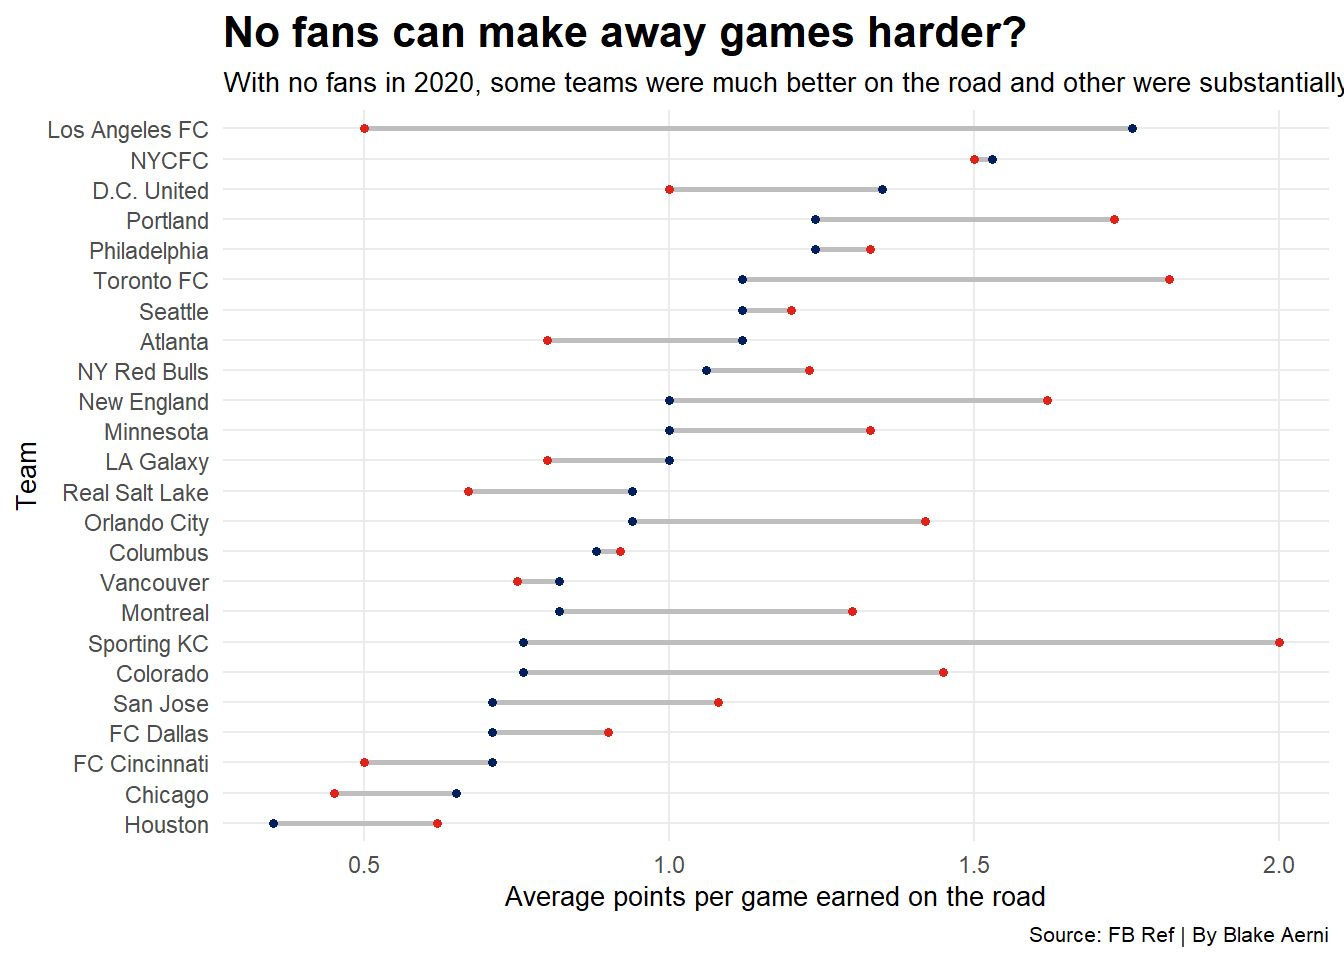
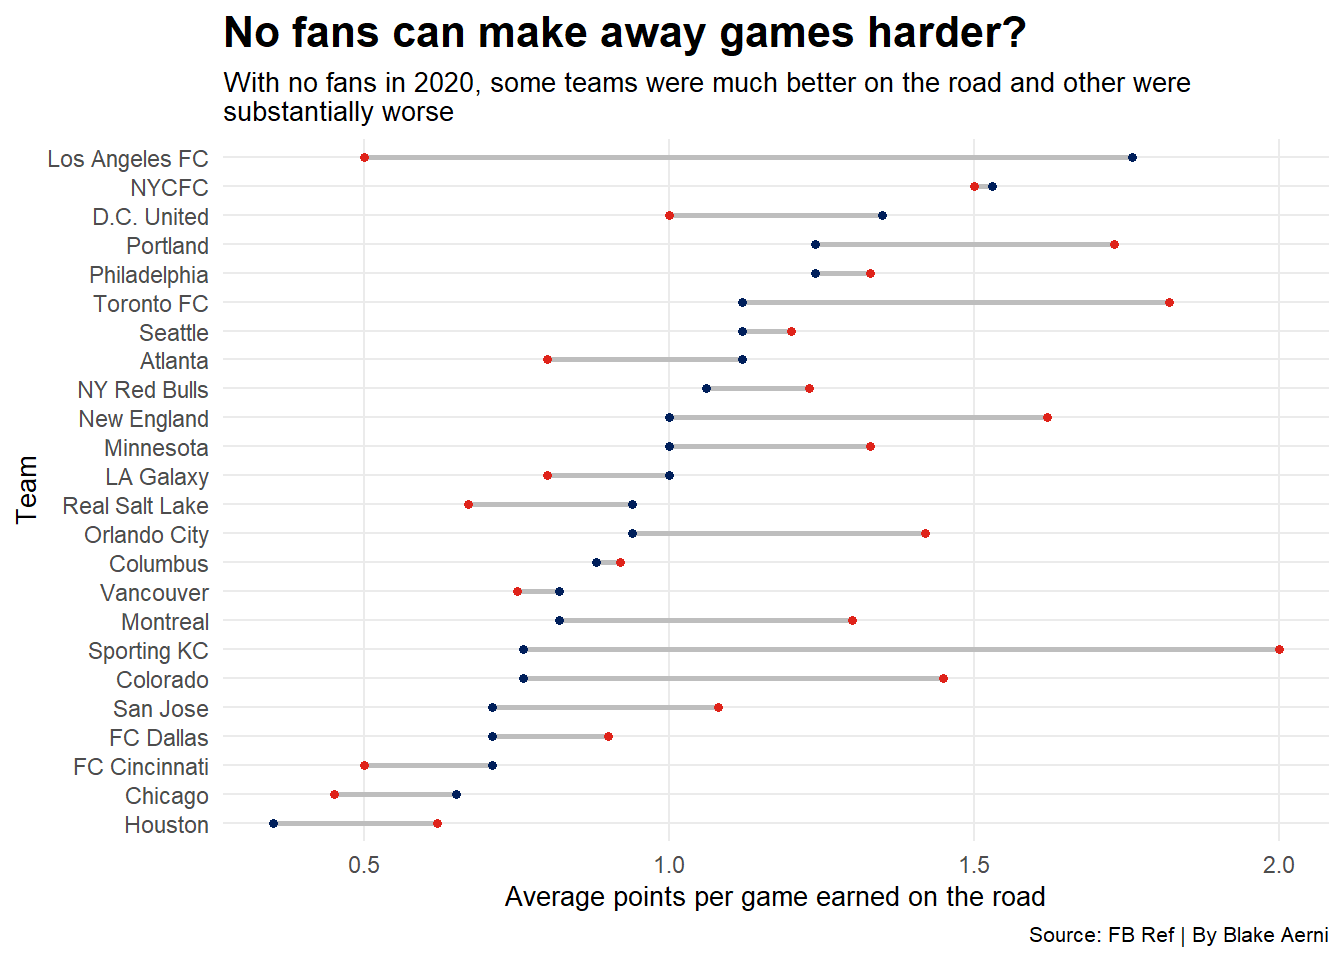
Changes to first project

diff --git a/2021/03/30/how-much-did-no-fans-affect-the-2020-mls-season/index.html b/2021/03/30/how-much-did-no-fans-affect-the-2020-mls-season/index.html
@@ -76,40 +76,14 @@
 <script src="http://blakeaerni.github.io/2021/03/30/how-much-did-no-fans-affect-the-2020-mls-season/index_files/header-attrs/header-attrs.js"></script>
 
 
-<p>Soccer fans around the world know how much the crowd can get in the head of an opposing player, put a team off their game, or just be supportive to the home team for 90 minutes. As far as we can remember, this has been the case, but in 2020, our reality changed.</p>
-<p>The 2020 MLS season played the majority of its games without fans, and even when there were fans it wasn’t very many. The season was odd, but it was played through to completion, and there was an eventual champion. The question is, how much does a lack of fans really affect the outcome on the field?</p>
-<p>This question sparked my interest, so I decided to take a deeper look.</p>
-<pre class="r"><code>library(tidyverse)</code></pre>
-<pre><code>## -- Attaching packages --------------------------------------- tidyverse 1.3.0 --</code></pre>
-<pre><code>## v ggplot2 3.3.3     v purrr   0.3.4
-## v tibble  3.0.5     v dplyr   1.0.3
-## v tidyr   1.1.2     v stringr 1.4.0
-## v readr   1.4.0     v forcats 0.5.1</code></pre>
-<pre><code>## -- Conflicts ------------------------------------------ tidyverse_conflicts() --
-## x dplyr::filter() masks stats::filter()
-## x dplyr::lag()    masks stats::lag()</code></pre>
-<pre class="r"><code>library(ggalt)</code></pre>
-<pre><code>## Warning: package &#39;ggalt&#39; was built under R version 4.0.4</code></pre>
-<pre><code>## Registered S3 methods overwritten by &#39;ggalt&#39;:
-##   method                  from   
-##   grid.draw.absoluteGrob  ggplot2
-##   grobHeight.absoluteGrob ggplot2
-##   grobWidth.absoluteGrob  ggplot2
-##   grobX.absoluteGrob      ggplot2
-##   grobY.absoluteGrob      ggplot2</code></pre>
-<pre class="r"><code>library(ggbeeswarm)</code></pre>
-<pre><code>## Warning: package &#39;ggbeeswarm&#39; was built under R version 4.0.4</code></pre>
-<pre class="r"><code>library(ggrepel)</code></pre>
-<pre><code>## Warning: package &#39;ggrepel&#39; was built under R version 4.0.4</code></pre>
-<pre class="r"><code>MLS &lt;- read_csv(&quot;D:/School/SPMC 350/Blog/AllMLS.csv&quot;)</code></pre>
-<pre><code>## 
-## -- Column specification --------------------------------------------------------
-## cols(
-##   .default = col_double(),
-##   Squad = col_character(),
-##   COVID = col_character()
-## )
-## i Use `spec()` for the full column specifications.</code></pre>
+<p>Soccer fans around the world know how much the crowd can get in the head of an opposing player, put a team off their game or just be supportive to the home team for 90 minutes. As far as we can remember this has been the case, but in 2020 our reality changed.</p>
+<p>The 2020 MLS season played the majority of its games without fans, and even when fans were in attendance, they were few and far between. The season was odd, but it was played through to completion and there was an eventual champion. The question is, how much does a lack of fans really affect the outcome on the field?</p>
+<pre class="r"><code>library(tidyverse)
+library(ggalt)
+library(ggbeeswarm)
+library(ggrepel)
+
+MLS &lt;- read_csv(&quot;D:/School/SPMC 350/Blog/AllMLS.csv&quot;)</code></pre>
 <p>I am working with data from the 2020 MLS season from FB Ref, a section of Sports Reference that has any soccer data needed. The specific data I am looking at has each team’s stats for the season, and I will focus on goals per game and points per game in both home and away matches. Along with that, I have data from the 10 years prior to the 2020 season to compare.</p>
 <p>The first thing that I want to do is make sure to have separate data sets for the 2020 season and the seasons prior.</p>
 <pre class="r"><code>MLS2020 &lt;- MLS %&gt;%
@@ -129,7 +103,7 @@ MLS15to20 &lt;- MLS %&gt;%
 ## * &lt;chr&gt;          &lt;dbl&gt;        &lt;dbl&gt;
 ## 1 Fans           0.896        0.585
 ## 2 No Fans        0.824        0.612</code></pre>
-<p>So the games with fans from 2015 to 2019 averaged about .896 goals per game from the home team and about .585 goals per game from the away teams. In 2020 the number of home goals per game dropped, and away goals went up. Let’s visualize that.</p>
+<p>The games from 2015 to 2019 that had fans averaged about .896 goals per game from the home team and about .585 goals per game from the away team. In 2020 the number of home goals per game dropped, and away goals went up. Let’s visualize that.</p>
 <pre class="r"><code>ggplot() + 
   geom_beeswarm(data=MLS2020, aes(x=&quot;2020 Home&quot;, y=HomeGPG), color=&quot;grey&quot;, size=2) +
   geom_beeswarm(data=MLS2020, aes(x=&quot;2020 Away&quot;, y=AwayGPG), color=&quot;grey&quot;, size=2) +
@@ -153,8 +127,8 @@ MLS15to20 &lt;- MLS %&gt;%
     plot.caption = element_text(size=8) 
     )</code></pre>
 <p><img src="http://blakeaerni.github.io/2021/03/30/how-much-did-no-fans-affect-the-2020-mls-season/index_files/figure-html/unnamed-chunk-4-1.png" width="672" /></p>
-<p>With each dot representing a team, the 2020 season not only saw a shift, but it also was much more spread out than any other year. In 2020 there were home teams that scored less goals than any of the five years prior, and some scored substantially more.However, right now I am just going off an eye test, but the best way to know if the 2020 season was an anomaly is by testing the numbers.</p>
-<p>I want to run a significance test to see if the number of goals scored by home teams is statistically significant in being lower than the average. To do that I will run what is called a t test and it will tell me if that is the case. What I am plugging in is asking how much home goals per game is affected by fans being in the stands.</p>
+<p>With each dot representing a team, the 2020 season not only saw a shift, but it also was much more spread out than any other year. In 2020 there were home teams that scored less goals than any of the five years prior, and some scored substantially more. However, right now I am just going off an eye test. The best way to know if the 2020 season was an anomaly is by testing the numbers.</p>
+<p>I am going to run a significance test to see if the number of goals scored by home teams is statistically significant in being lower than the average. To do that I will run what is called a t-test and it will tell me if that is the case. What I am plugging in is asking how much home goals per game is affected by fans being in the stands.</p>
 <pre class="r"><code>t.test(HomeGPG ~ COVID, data=MLS15to20)</code></pre>
 <pre><code>## 
 ##  Welch Two Sample t-test
@@ -167,9 +141,9 @@ MLS15to20 &lt;- MLS %&gt;%
 ## sample estimates:
 ##    mean in group Fans mean in group No Fans 
 ##             0.8963842             0.8236220</code></pre>
-<p>The most important information in this test is the p-value. If that value is less than .05 it means we have the go ahead to say that what I found is statistically significant. However, here it is not. In fact, it’s really not even close.</p>
-<p>What this means is that you cannot confidently say that the lack of fans was the clear cause for the home goals per game to drop.</p>
-<p>However, I feel like that is too high, and there is no way that fans have that little of an impact. To test this further, I am going to get rid of the clear outlier here. LAFC had a fantastic season at home in 2020, and they averaged more goals per game at home than any team in the past five years by far. What I want to do is test the average without LAFC and see if that is statistically significant. If it is, I would be able to say that fans likely have an impact on home goals per game.</p>
+<p>The most important information in this test is the p-value on the second row. If that value is less than .05 it means we have the go ahead to say that what I found is statistically significant. However, here it is not. In fact, it’s really not even close.</p>
+<p>What this means is that I cannot confidently say that the lack of fans was the cause for the home goals per game to drop.</p>
+<p>However, I feel like that p-value is too high, and there is no way that fans have that little of an impact. To test this further, I am going to get rid of the clear outlier here. LAFC had a fantastic season at home in 2020, and they averaged more goals per game at home than any team in the past five years by far. What I want to do is test the average without LAFC and see if that is statistically significant. If it is, I would be able to say that fans likely have an impact on home goals per game.</p>
 <pre class="r"><code>MLS15to20NoLAFC &lt;- MLS15to20 %&gt;%
   filter(HomeGPG&lt;1.5)
 t.test(HomeGPG ~ COVID, data=MLS15to20NoLAFC)</code></pre>
@@ -210,7 +184,10 @@ ggplot() +
     color=&quot;#df231a&quot;,
     size=1.25
     ) +
-  labs(x=&quot;Average points per game earned by home team&quot;, y=&quot;&quot;, title=&quot;Fans may not change as much as we thought...&quot;, subtitle=&quot;The 2020 season didn&#39;t take last place for average points earned at home since 2010&quot;, caption=&quot;Source: FB Ref | By Blake Aerni&quot;) + 
+  labs(x=&quot;Average points per game earned by home team&quot;,
+       y=&quot;&quot;, title=&quot;Fans may not change as much as we thought...&quot;,
+       subtitle=&quot;The 2020 season didn&#39;t take last place for average points earned at home since 2010&quot;,
+       caption=&quot;Source: FB Ref | By Blake Aerni&quot;) + 
   theme_minimal() + 
   theme(
     plot.title = element_text(size = 16, face = &quot;bold&quot;),
@@ -221,7 +198,7 @@ ggplot() +
     ) </code></pre>
 <p><img src="http://blakeaerni.github.io/2021/03/30/how-much-did-no-fans-affect-the-2020-mls-season/index_files/figure-html/unnamed-chunk-7-1.png" width="672" /></p>
 <p>In 2011 there were less points earned on average by the home team than in 2020. Last time I checked there wasn’t a global pandemic in 2011 that forced fans out of the stadiums…</p>
-<p>So as I get further into this, the more I am starting to realize that the 2020 season may not have been such an uncharacteristic season after all. If this is the case, then that means that some teams had to have had a better year in 2020 than in previous years</p>
+<p>As I get further into this, the more I am starting to realize that the 2020 season may not have been such an uncharacteristic season after all. If this is the case, then that means that some teams had to have had a better year in 2020 than in previous years</p>
 <p>To see that, I am going to take a look at how teams performed on the road in 2020 compared to 2019. For this, I will have to make a new data frame that is just the 2019 and 2020 season stats. I will also have to drop both Nashville and Miami since they don’t have any 2019 stats to compare to.</p>
 <pre class="r"><code>MLS19_20 &lt;- MLS %&gt;%
   filter(Year&gt;2018)
@@ -241,7 +218,7 @@ MLS19_20wide &lt;- MLS19_20 %&gt;%
   theme_minimal() +
   labs(x=&quot;Average points per game earned on the road&quot;,
        y=&quot;Team&quot;, title=&quot;No fans can make away games harder?&quot;,
-       subtitle=&quot;With no fans in 2020, some teams were much better on the road and other were substantially worse&quot;,
+       subtitle=&quot;With no fans in 2020, some teams were much better on the road and other were\nsubstantially worse&quot;,
        caption=&quot;Source: FB Ref | By Blake Aerni&quot;) + 
   theme_minimal() + 
   theme(
@@ -252,9 +229,9 @@ MLS19_20wide &lt;- MLS19_20 %&gt;%
     plot.caption = element_text(size=8)
     )</code></pre>
 <p><img src="http://blakeaerni.github.io/2021/03/30/how-much-did-no-fans-affect-the-2020-mls-season/index_files/figure-html/unnamed-chunk-9-1.png" width="672" /></p>
-<p>Some teams like LAFC were much worse in 2020 than they were in 2019, but on the other hand, teams like Sporting KC were so much better than they were on the road in 2019. In theory, 2020 would be easier on the road for most teams because you aren’t going to be hassled by the fans, but that isn’t the case for everyone.</p>
+<p>Some teams, like LAFC, were much worse on the road in 2020 than they were in 2019. On the other hand, teams like Sporting KC were so much better than they were on the road in 2019. In theory, 2020 would be easier on the road for most teams because you aren’t going to be hassled by the fans, but that isn’t the case for everyone.</p>
 <p>When looking back at the 2020 season years down the line, people will likely still assume that home teams had less of an advantage and away teams were better. However, the data disagrees. Home teams still had an advantage, and not every team was better on the road.</p>
-<p>Does this mean fans have absolutely no affect on the game? I wouldn’t go that far either. It likely falls somewhere in the middle. Fans do give their team a boost, and help them win some games, but when they are removed, the home team still performs better. It makes you think, maybe home field advantage has more to do with the comfort of your own stadium and no travel than it does the fans in the stadium.</p>
+<p>Does this mean fans have absolutely no impact on the game? I wouldn’t go that far either. It likely falls somewhere in the middle. Fans do give their team a boost and help them win some games, but when they are removed, the home team still performs better. It makes you think, maybe home field advantage has more to do with the comfort of your own stadium and no travel than it does the fans in the stadium.</p>
 
     </div>
   </article>
